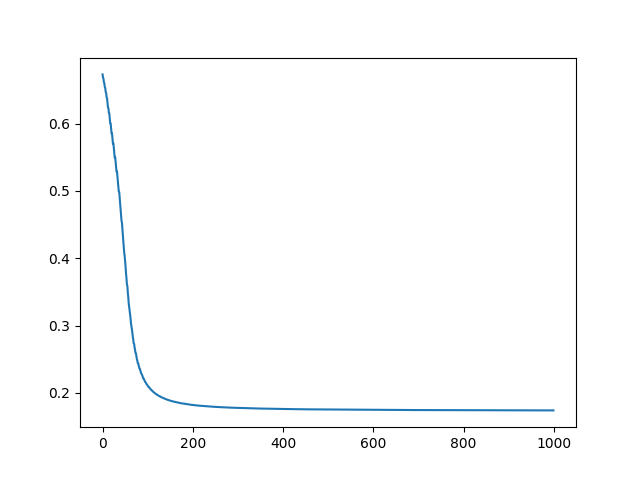
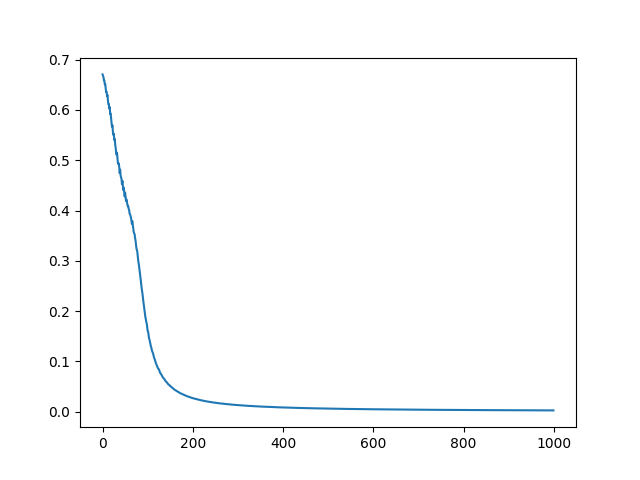
MLP修改

diff --git a/tutorial/MLP.py b/tutorial/MLP.py
@@ -100,7 +100,7 @@ class Linear(Layer):
             TODO: Finish the forward propagation function and save some variables if you need
         """
         self.x=np.array([x])
-        self.y=np.add( np.matmul( x , self.W ) ,self.b )  # y=XW+B
+        self.y=(x@self.W)-self.b  # y=XW+B
         return self.y
         # x为[1 x size_in]的输入向量，self.y为[1 x size_out]的输出向量
     
@@ -108,7 +108,7 @@ class Linear(Layer):
         """
             TODO: Finish the backward propagation function and save gradients of W and b
         """
-        self.grad_y=np.array([node_grad])
+        self.grad_y=node_grad
         return node_grad@np.transpose(self.W)
         # 输入大小为[1 x size_out]的向量，输出大小为[1 x size_in]的向量
     
@@ -118,7 +118,8 @@ class Linear(Layer):
         """
         # print(np.transpose(self.x))
         # print(self.grad_y)
-        self.W= self.W -learning_rate * ( np.transpose(self.x) @ self.grad_y )
+        self.W= self.W - learning_rate * ( np.transpose(self.x) @ np.array([self.grad_y]) )
+        self.b= self.b + learning_rate * self.grad_y
         #通过learning_rate,前一层的输入数据，和算出的对后一层输出数据的梯度 来算出delta(W)
         
 

diff --git a/numpy学习.py b/numpy学习.py
@@ -5,13 +5,13 @@ import numpy as np
 np.random.seed(1234)
 X=np.random.rand(2,3)
 # X=np.array([[-1,3],[1,1]])
-X=np.array([1,2])
+X=np.array([[1,2],[2,2],[1,1]])
 Y=np.array([[2,2],[1,1]])
 # X=np.maximum(X,3)
 # X= np.zeros(4)
 # X=Y*(X>0)
 print(X)
-print(np.transpose(X))
+print(X@np.transpose(X))
 
 
 # 创建数组
